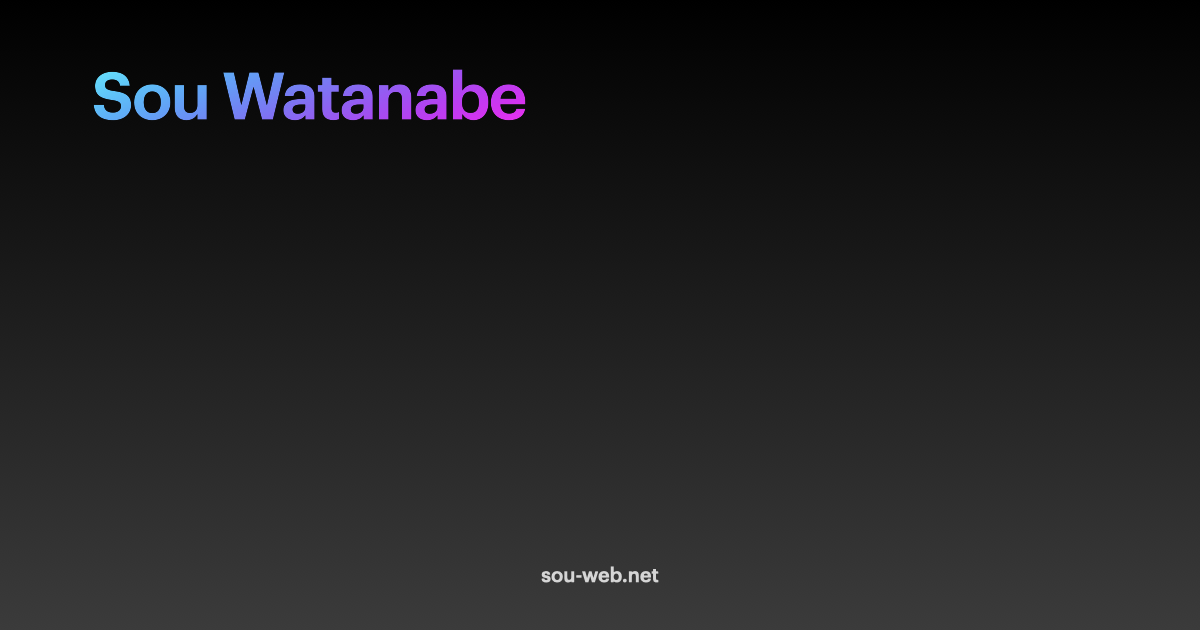
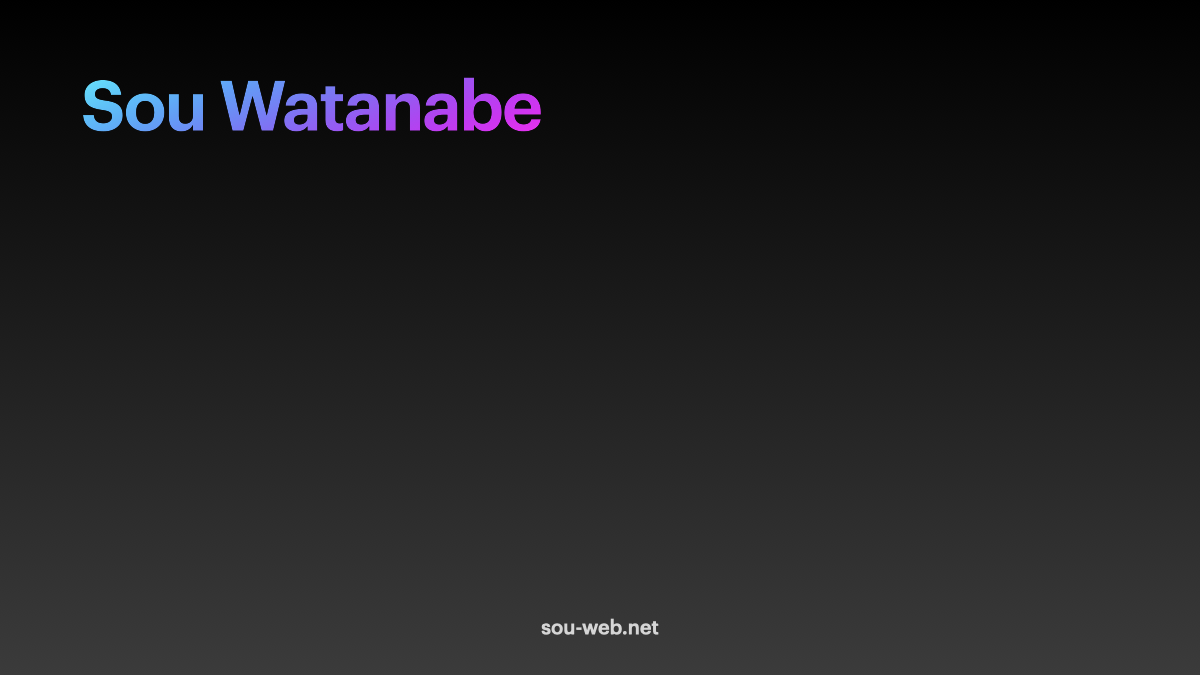
test

Changed region(s): [[0.0617, 0.0905, 0.4625, 0.2111], [0.4317, 0.9048, 0.555, 0.9651]]

diff --git a/api/_lib/template.ts b/api/_lib/template.ts
@@ -46,32 +46,17 @@ function getCss(fontSize: string) {
         align-items: center;
         justify-content: center;
     }
-    code {
-        color: #D400FF;
-        font-family: 'Vera';
-        white-space: pre-wrap;
-        letter-spacing: -5px;
-    }
-    code:before, code:after {
-        content: '\`';
-    }
-    .logo-wrapper {
-        display: flex;
-        align-items: center;
-        align-content: center;
-        justify-content: center;
-        justify-items: center;
-    }
-    .logo {
-        margin: 0 75px;
-    }
+
     .sou {
         z-index: 0;
         position: absolute;
         width: 1200px;
-        height: 630px;
-        top: 0;
+        height: 675px;
         left: 0;
+        right: 0;
+        top: 0;
+        bottom: 0;
+        margin:  auto;
     }
     .plus {
         color: #BBB;
